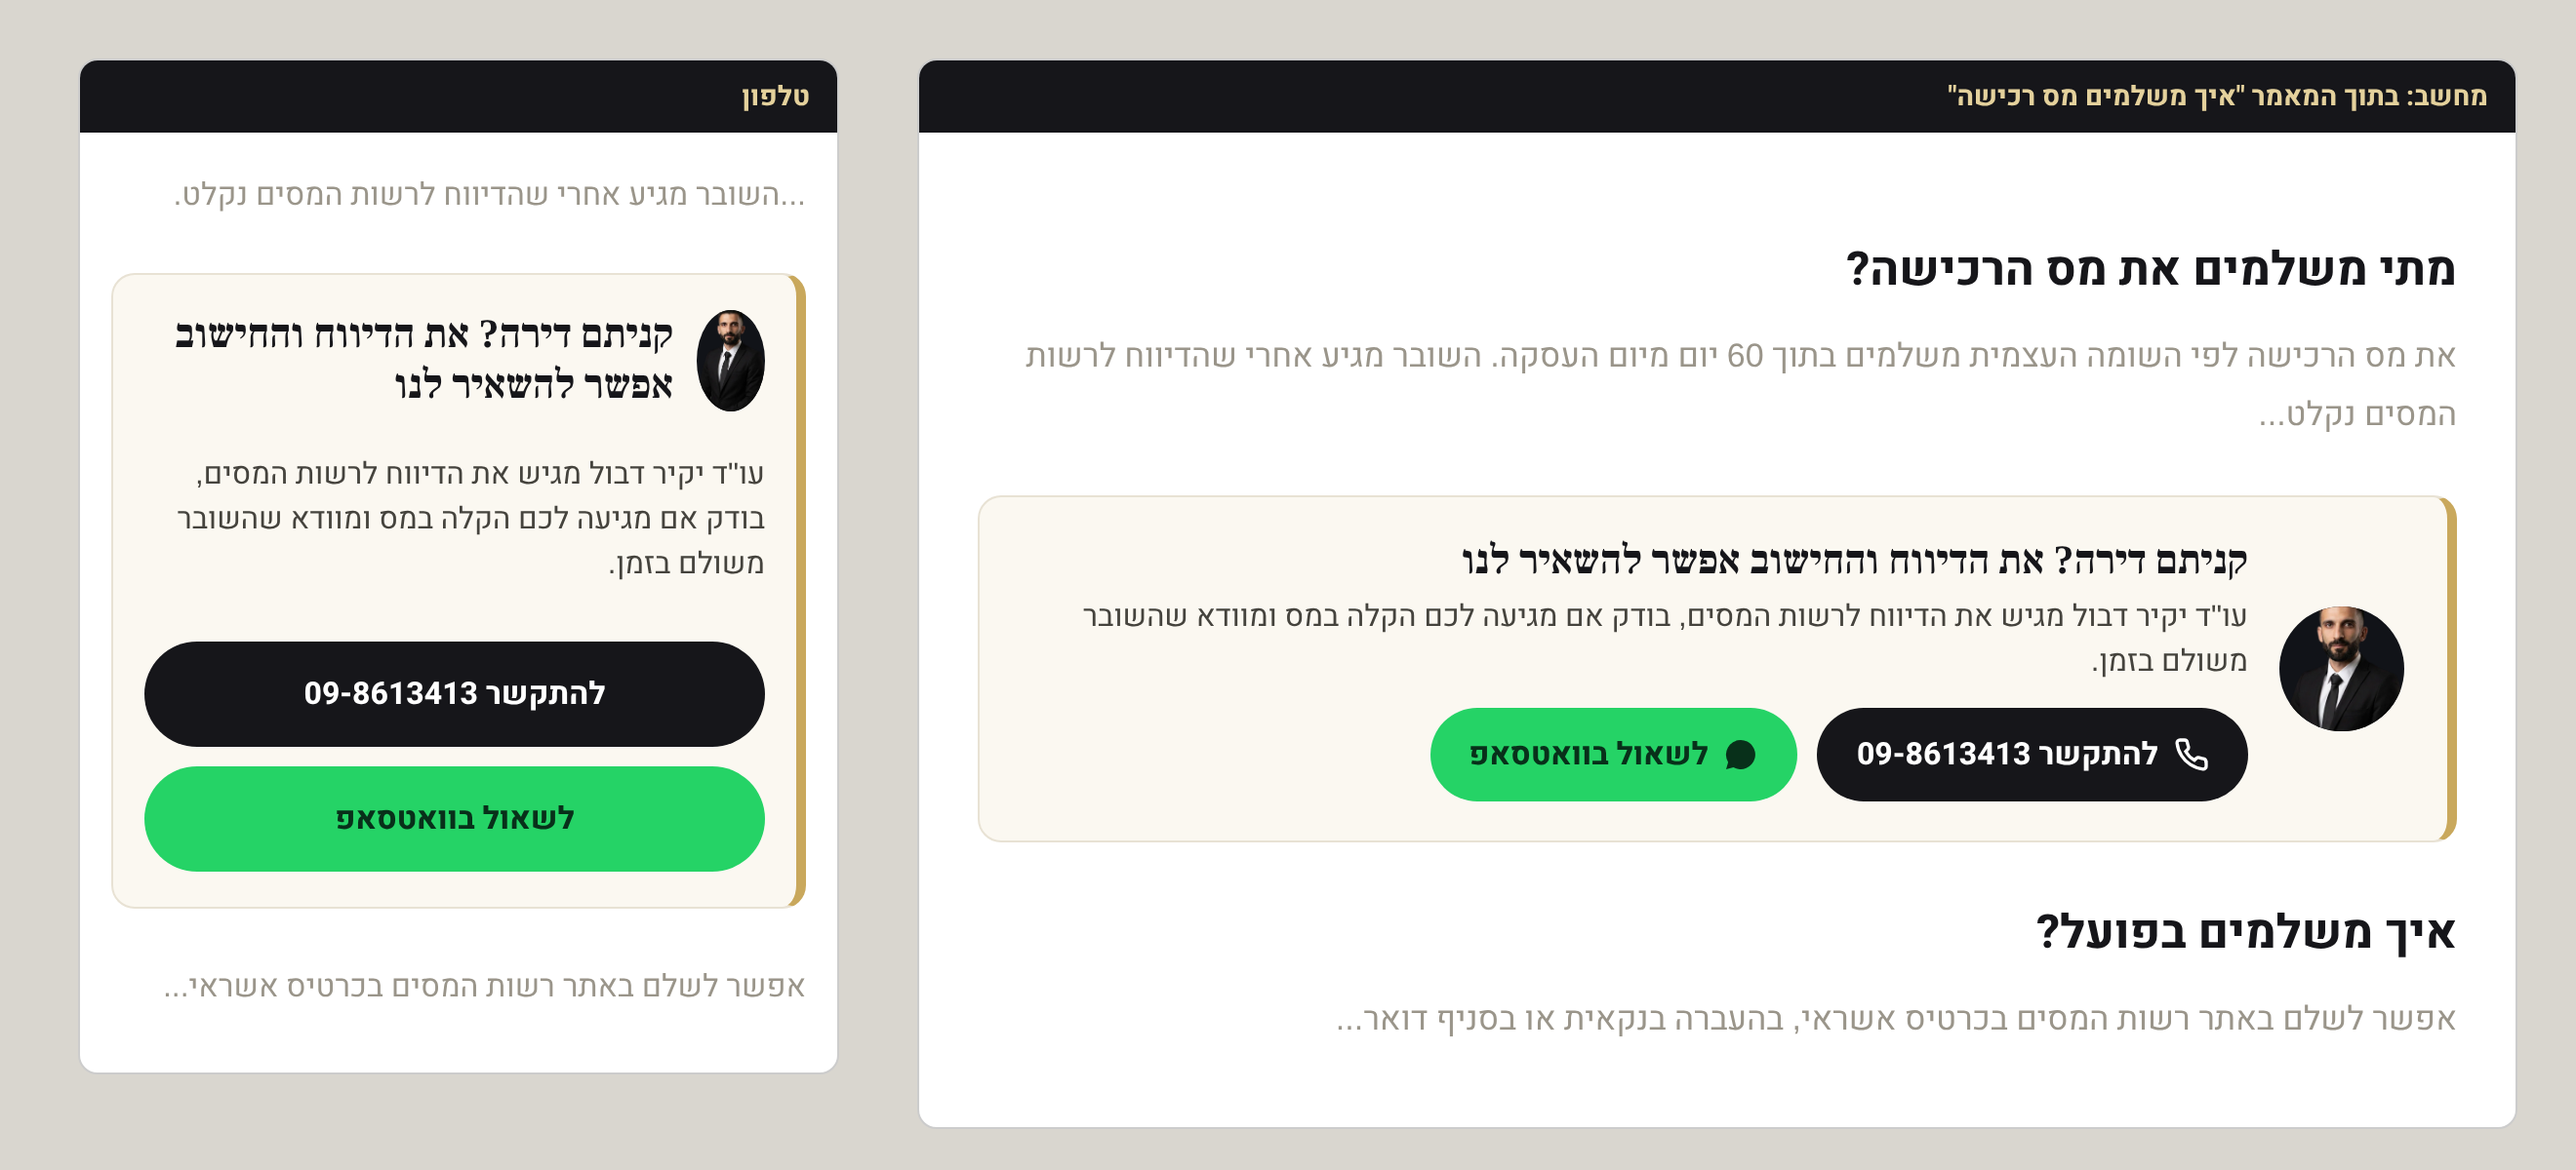
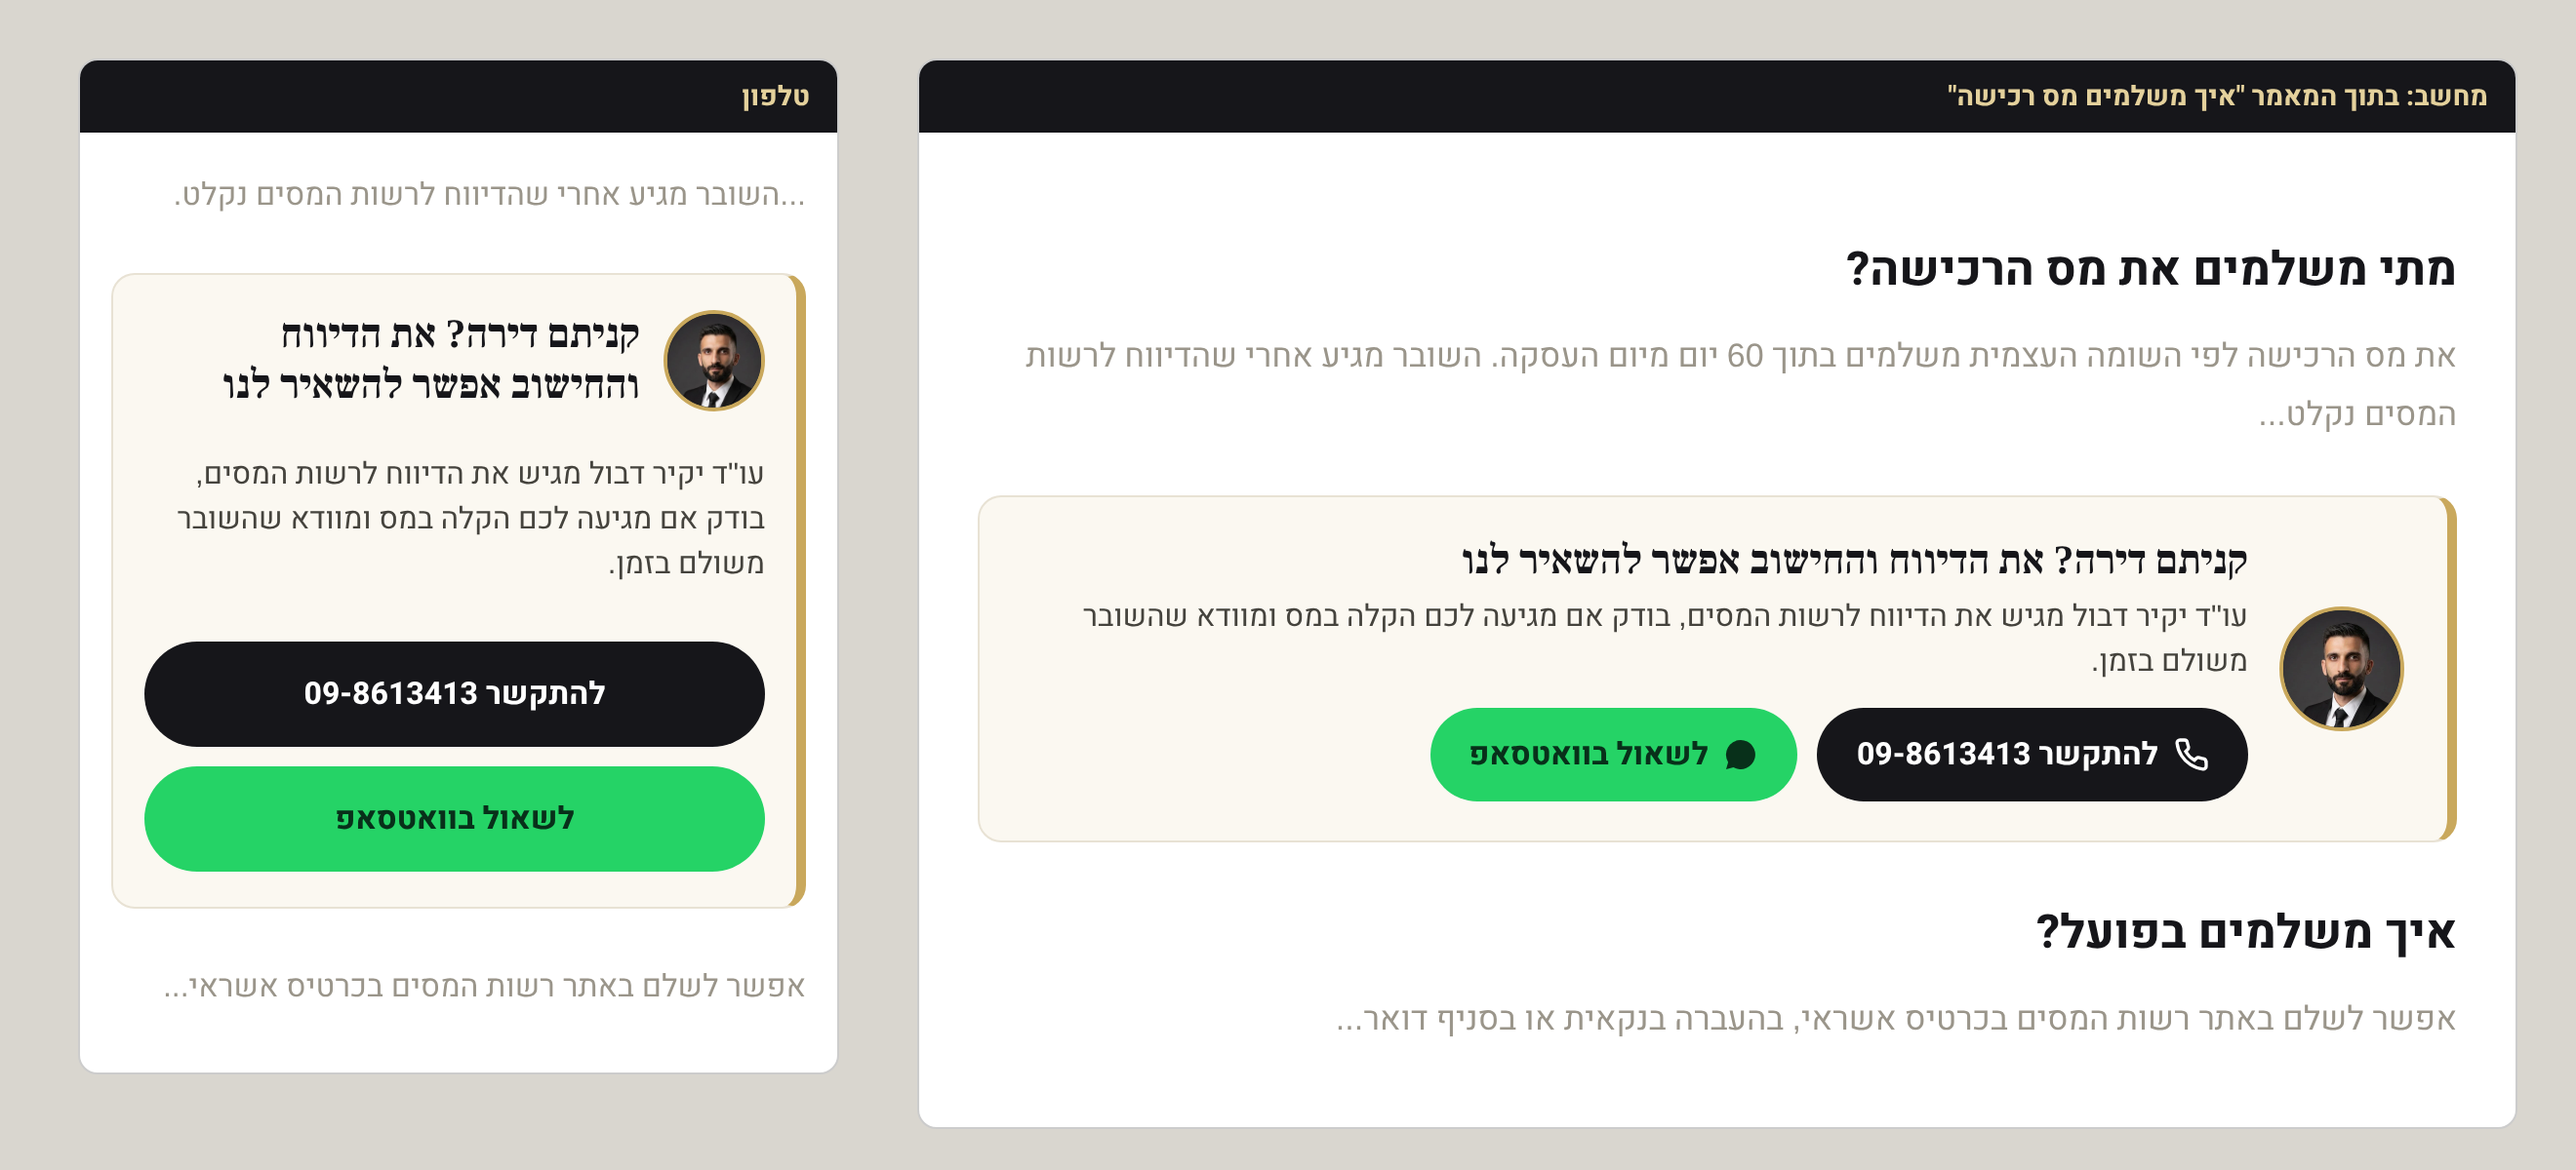
mockup: square portrait centered in the CTA circles
Claude-Session: https://claude.ai/code/session_01R2PTbBSCdrkEqwtLk6qd2a

Changed region(s): [[0.0621, 0.2467, 0.3106, 0.37], [0.8697, 0.5242, 0.9318, 0.6475]]

diff --git a/media/widgets/mockups/article-cta-20261011.html b/media/widgets/mockups/article-cta-20261011.html
@@ -15,7 +15,7 @@ body{font-family:H,sans-serif;background:#d9d6cf;display:flex;gap:40px;padding:3
 .page .muted{color:#9a958a}
 /* the proposed box */
 .dcta{margin:26px 0;border:1px solid #e8e2d4;border-right:5px solid #c9a85c;background:#fbf8f1;border-radius:12px;padding:20px 22px;display:grid;grid-template-columns:64px 1fr;gap:16px;align-items:center}
-.dcta img{width:64px;height:64px;border-radius:50%;object-fit:cover;object-position:50% 12%;background:#111318}
+.dcta img{width:64px;height:64px;border-radius:50%;object-fit:cover;object-position:50% 30%;background:#2a2a2a;border:2px solid #c9a85c}
 .dcta b{display:block;font-family:F,serif;font-size:21px;line-height:1.25;color:#16161a}
 .dcta p{margin:4px 0 12px;font-size:15.5px;line-height:1.5;color:#45433d}
 .dcta .btns{display:flex;flex-wrap:wrap;gap:10px}
@@ -32,14 +32,14 @@ body{font-family:H,sans-serif;background:#d9d6cf;display:flex;gap:40px;padding:3
 <div class="frame" style="width:820px" id="d"><div class="lbl">מחשב: בתוך המאמר "איך משלמים מס רכישה"</div><div class="page">
  <h2>מתי משלמים את מס הרכישה?</h2>
  <p class="muted">את מס הרכישה לפי השומה העצמית משלמים בתוך 60 יום מיום העסקה. השובר מגיע אחרי שהדיווח לרשות המסים נקלט...</p>
- <div class="dcta"><img src="../../yakir-cutout-20261008.webp" alt=""><div><b>קניתם דירה? את הדיווח והחישוב אפשר להשאיר לנו</b><p>עו"ד יקיר דבול מגיש את הדיווח לרשות המסים, בודק אם מגיעה לכם הקלה במס ומוודא שהשובר משולם בזמן.</p>
+ <div class="dcta"><img src="../../hero/yakir-dabul-portrait.webp" alt=""><div><b>קניתם דירה? את הדיווח והחישוב אפשר להשאיר לנו</b><p>עו"ד יקיר דבול מגיש את הדיווח לרשות המסים, בודק אם מגיעה לכם הקלה במס ומוודא שהשובר משולם בזמן.</p>
  <div class="btns"><a class="call" href="#"><svg viewBox="0 0 24 24" fill="none" stroke="currentColor" stroke-width="2.2"><path d="M22 16.9v3a2 2 0 0 1-2.2 2 19.8 19.8 0 0 1-8.6-3.1 19.5 19.5 0 0 1-6-6A19.8 19.8 0 0 1 2.1 4.2 2 2 0 0 1 4.1 2h3a2 2 0 0 1 2 1.7c.1.9.4 1.8.7 2.7a2 2 0 0 1-.5 2.1L8 9.8a16 16 0 0 0 6 6l1.3-1.3a2 2 0 0 1 2.1-.4c.9.3 1.8.6 2.7.7a2 2 0 0 1 1.7 2z"/></svg>להתקשר 09-8613413</a><a class="wa" href="#"><svg viewBox="0 0 24 24" fill="currentColor"><path d="M12 2a10 10 0 0 0-8.6 15.1L2 22l5-1.3A10 10 0 1 0 12 2z"/></svg>לשאול בוואטסאפ</a></div></div></div>
  <h2>איך משלמים בפועל?</h2>
  <p class="muted">אפשר לשלם באתר רשות המסים בכרטיס אשראי, בהעברה בנקאית או בסניף דואר...</p>
 </div></div>
 <div class="frame m" style="width:390px" id="m"><div class="lbl">טלפון</div><div class="page">
  <p class="muted">...השובר מגיע אחרי שהדיווח לרשות המסים נקלט.</p>
- <div class="dcta"><div class="who"><img src="../../yakir-cutout-20261008.webp" alt=""><b>קניתם דירה? את הדיווח והחישוב אפשר להשאיר לנו</b></div><p>עו"ד יקיר דבול מגיש את הדיווח לרשות המסים, בודק אם מגיעה לכם הקלה במס ומוודא שהשובר משולם בזמן.</p>
+ <div class="dcta"><div class="who"><img src="../../hero/yakir-dabul-portrait.webp" alt=""><b>קניתם דירה? את הדיווח והחישוב אפשר להשאיר לנו</b></div><p>עו"ד יקיר דבול מגיש את הדיווח לרשות המסים, בודק אם מגיעה לכם הקלה במס ומוודא שהשובר משולם בזמן.</p>
  <div class="btns"><a class="call" href="#">להתקשר 09-8613413</a><a class="wa" href="#">לשאול בוואטסאפ</a></div></div>
  <p class="muted">אפשר לשלם באתר רשות המסים בכרטיס אשראי...</p>
 </div></div>
